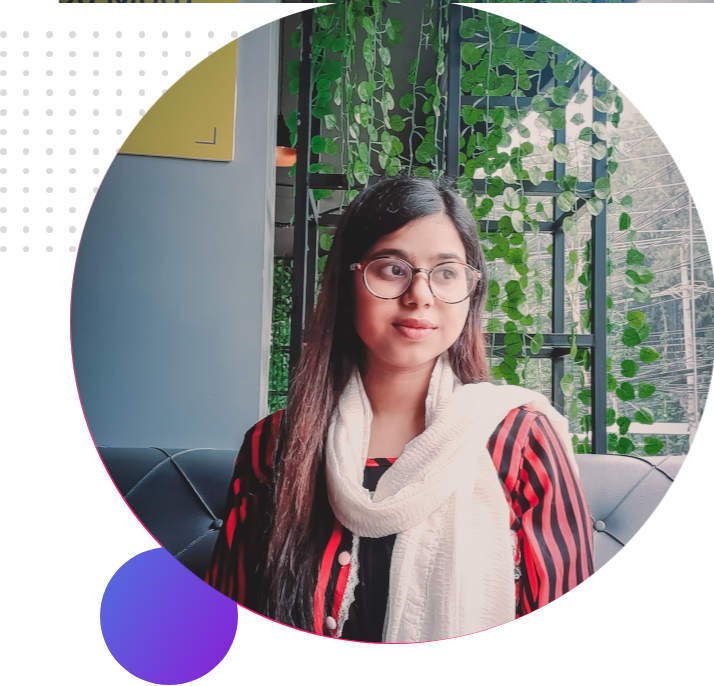
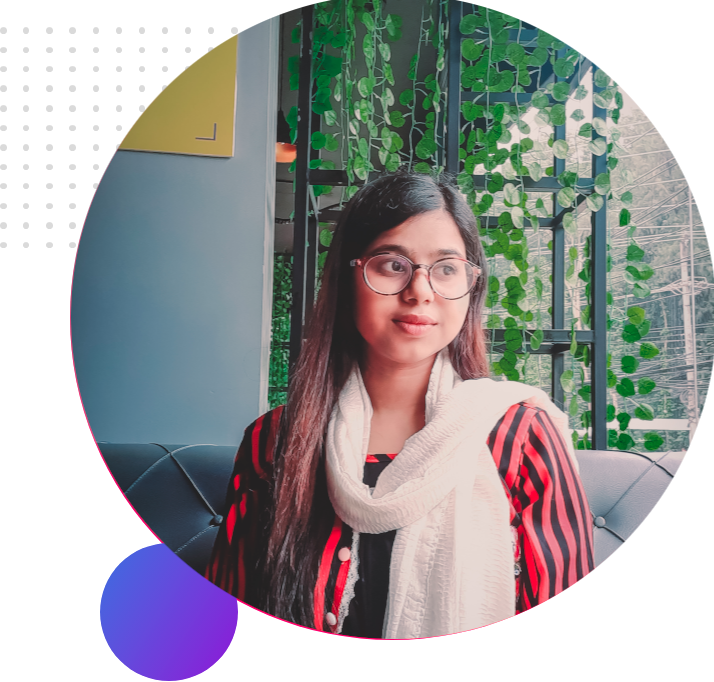
pic edited and 2nd section

diff --git a/index.html b/index.html
@@ -36,6 +36,26 @@
 
     </section>
 
+    <section class="flex-section">
+
+        <div class="half-width">
+
+            <img src="images/aspi-bg2.png" alt="aspia's picture">
+        </div>
+        <div class="half-width">
+
+            <h1>Dream Big</h1>
+
+            <h3>Become a web developer</h3>
+            <p>I already learned the basic HTML and CSS. I can build any simple website. I can even teach my grandma how
+                to make simple website. My goal is to build 3 websites and learn advanced topics.
+            </p>
+            <a class="link-button" href="https://www.linkedin.com/company/programminghero">Download Resume</a>
+        </div>
+
+
+    </section>
+
 </body>
 
 </html>

diff --git a/style.css b/style.css
@@ -18,6 +18,7 @@ h1 {
 
 
     padding-left: 10%;
+    margin-bottom: 70px;
 
 
 }
